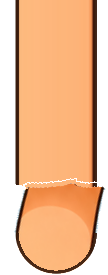
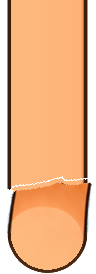
fix(liv): side/tqb cuts: the skirt's hem line belongs to the skirt, not baked into the thighs
The hem ink the pack's skirt part left in the picture is claimed for the skirt before the legs are
cut; the leg line fit skips rows next to it. Joints back to the stride measured before.

diff --git a/tools/liv/rive/cut_side.py b/tools/liv/rive/cut_side.py
@@ -284,12 +284,13 @@ class ViewCut:
             hit = [min(d)[1]]
         leg = ndimage.binary_fill_holes(lab == hit[0])
         self.claim(f'leg{sd}', leg)
+        block = self.cov | getattr(self, 'hem', np.zeros_like(self.cov))   # skirt (with its hem line) and sock
         ys, cx, wd = [], [], []
         for y in range(y_top, y_bot + 1):
             xs = np.nonzero(leg[y])[0]
             if len(xs) < 10: continue
             # rows touching the skirt or the sock are left out of the fit
-            if self.cov[y, max(0, xs.min() - 2):xs.max() + 3].any() or self.cov[max(0, y - 3):y + 4, xs.min():xs.max() + 1].any(): continue
+            if block[y, max(0, xs.min() - 2):xs.max() + 3].any() or block[max(0, y - 6):y + 7, xs.min():xs.max() + 1].any(): continue
             ys.append(y); cx.append((xs.min() + xs.max()) / 2); wd.append(xs.max() - xs.min() + 1)
         a, b = np.polyfit(ys, cx, 1)
         u = unit([a, 1.0])                                             # down the leg
